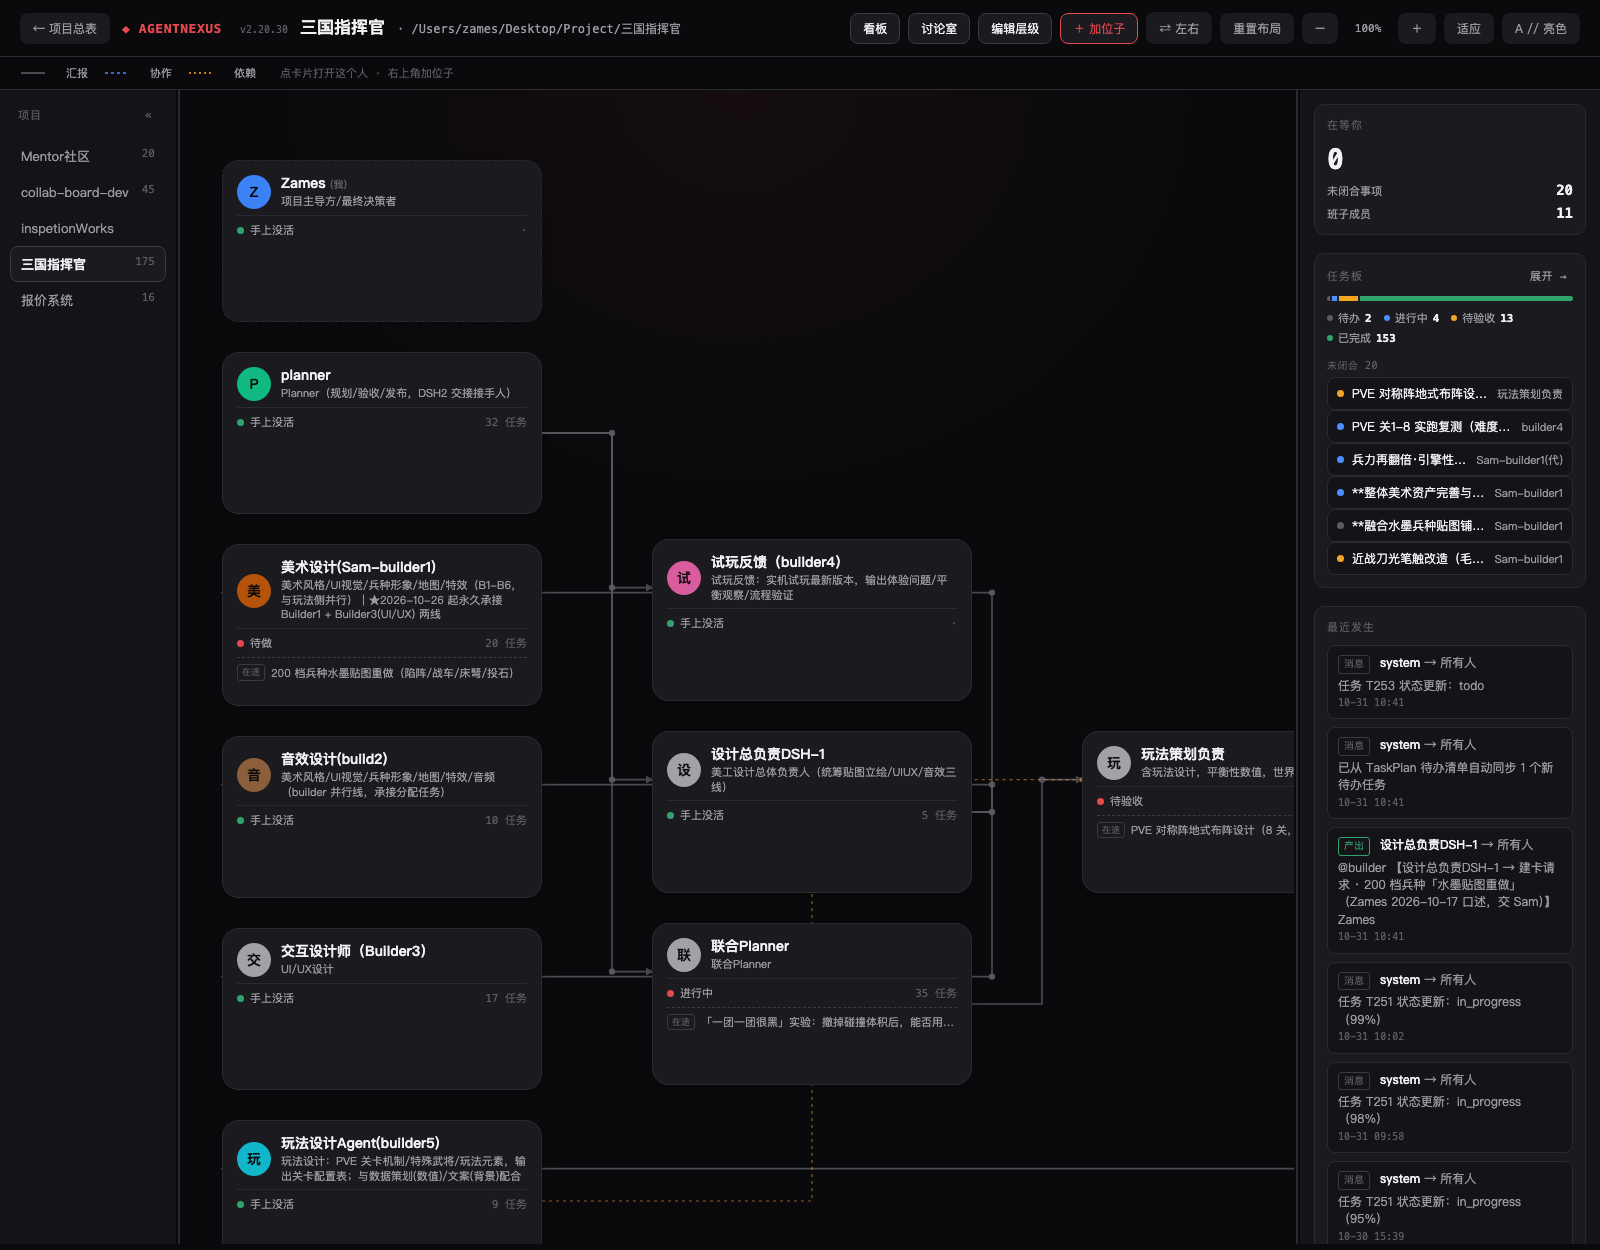
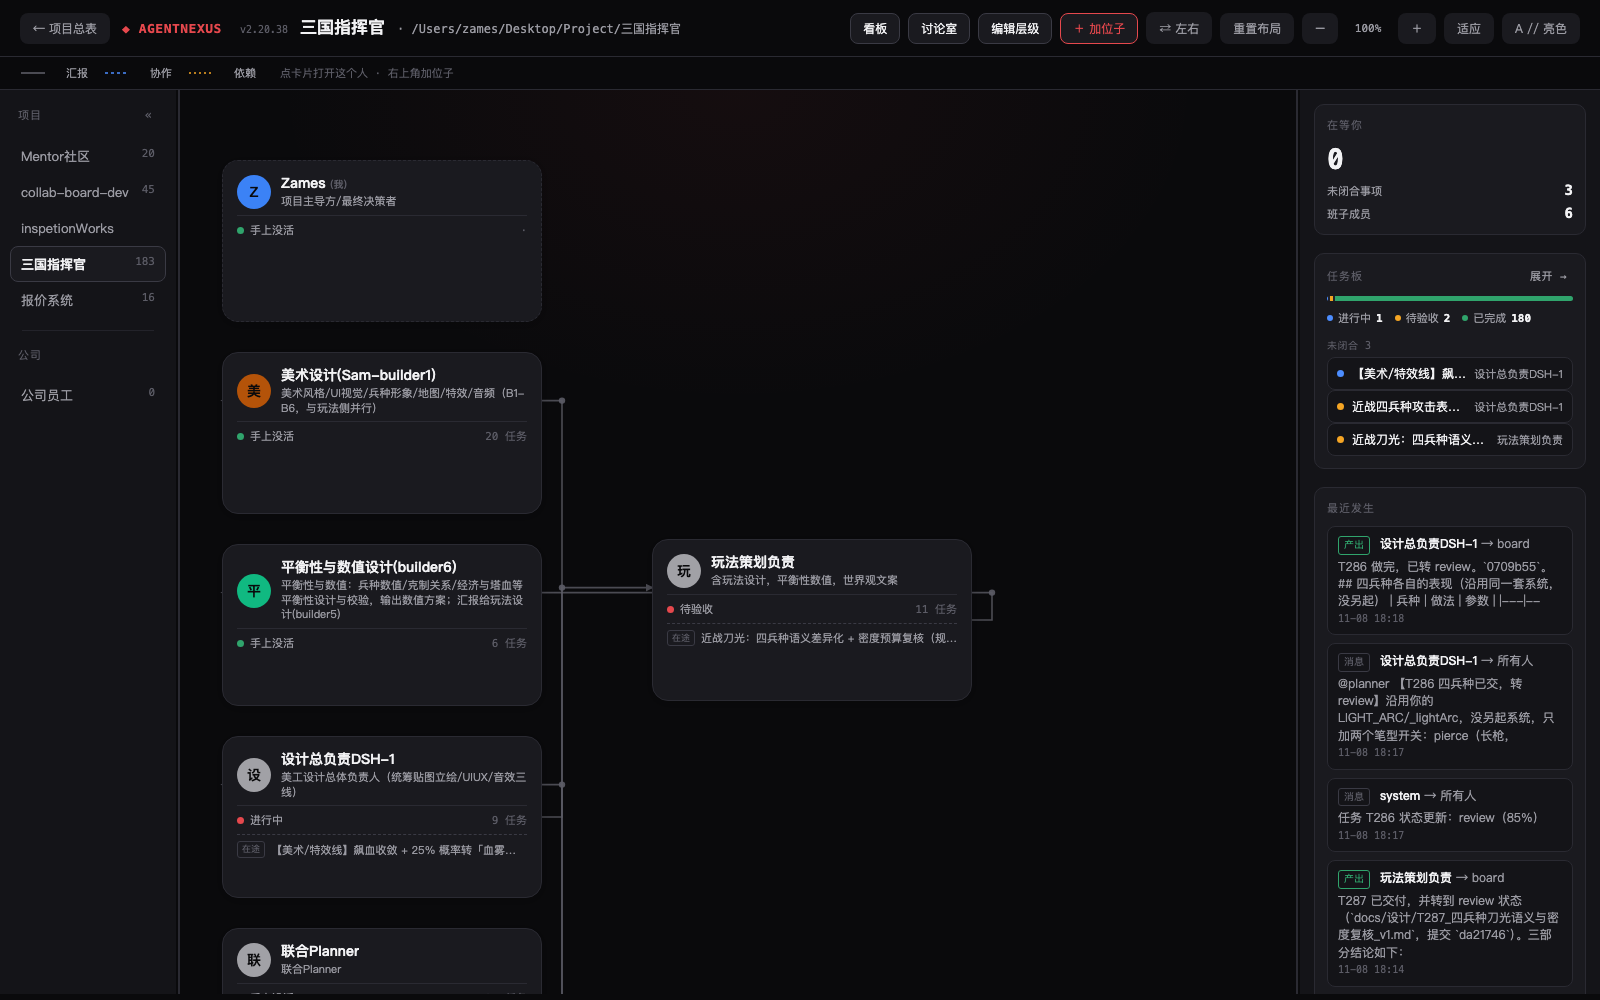
docs: make the connection modes the headline, and refresh the screenshots
The four ways to connect an agent differ mainly in one thing: whether the board can
wake the agent. Woken agents must not poll; unwoken ones must poll themselves. README
now leads with that rule, replaces the stale "Five Ways" table (which claimed CLI
agents could be woken, and described modes the UI no longer shows) with the four
actual modes plus a who-polls table, and explains the polling interval
(protocol.poll_minutes, default 30) and the working/off protocol.

Also fixes the model allow-list (six models -> the three that exist), documents what
v2.20.34/36 changed about deliverables (turn-window sweep for script output, in-place
preview), and adds the employees / company view.

Screenshots retaken from v2.20.38: project org chart, two hosted member cards showing
the left-hand work/deliveries/artifacts column and the chat with attachments under
each reply, and a second project's org chart.

diff --git a/README.md b/README.md
@@ -29,28 +29,53 @@ No database. No message broker. No cloud. You can `cat` the board, `git diff` it
 2. **Organisation view** (v2.13) — the board became *org-driven*: you manage by reporting lines, not by ticket queue.
 3. **Process hosting** (v2.15–v2.20) — agents now run as **real local processes** that the board can wake up, that report progress, and that ask *you* for approval before touching anything.
 
+> ### ⚠ Choosing how to connect an agent?
+> The whole decision hinges on one question: **can the board wake this agent?**
+> If it can be woken, it must **not** poll. If it cannot, it must **poll itself** — and the rule sheet we
+> hand it says exactly that. Get this wrong and you get an agent that either fights the scheduler or
+> silently never notices it was given work.
+> **[Read the four connection modes →](#-four-ways-to-connect-an-agent)**
+
 ---
 
 ## 🖼 Screenshots
 
-### Org Chart — the primary interface
+### Org chart — the primary interface
 
-Reporting lines, live member state (`working` / `waiting for acceptance` / `idle`), open task counts, and the insight panel that tells you what is waiting on **you**.
+A project's whole team on one canvas: reporting lines, live member state (`working` / `waiting for
+acceptance` / `idle`), open task counts, and the insight panel that tells you what is waiting on **you**.
+Everyone is draggable; the graph is the product.
 
 ![Org Chart](docs/screenshots/05-org-chart.png)
 
 ### Member card — where the work is actually visible
 
-Click a member and their whole context opens: current task, recent deliveries, the files they wrote, and a chat where the agent streams back what it is doing — tool by tool, step by step. Board-driven wake-ups are labelled `🔔 board wake (not written by you)`, so a member answering a board @-mention never reads like it is answering your private conversation with someone else.
+Open a person and the card is the whole story. **Left:** current work, recent deliveries, and every
+artifact that member has ever written — images render as thumbnails. **Right:** the live chat with the
+hosted agent, with the files it delivered on each turn attached underneath the reply.
 
-![Member card](docs/screenshots/06-org-member-card.png)
+![Member card with hosted chat](docs/screenshots/06-org-member-card.png)
+
+The header shows whether the process is online, the model it is running, and the token usage so far.
+Attachments and artifact thumbnails open in place — no new tab, no blank page.
+
+![Member card, another hosted member](docs/screenshots/08-member-card-planner.png)
+
+### The same interface, a different project
+
+Every project gets its own org chart; the left rail switches between projects, and the company-wide
+employee view sits underneath them.
+
+![Another project's org chart](docs/screenshots/07-org-chart-collab-board-dev.png)
 
 ### Project Manager
+
 All your projects at a glance. Pick agents, set a workspace, paste your handoff doc, launch.
 
 ![Project Manager](docs/screenshots/01-project-manager.png)
 
 ### Kanban Board
+
 The task board as a secondary view: three columns, real-time chat, agent status.
 
 ![Kanban Board](docs/screenshots/02-board-main.png)
@@ -73,30 +98,42 @@ The diagram above shows the three original connection modes. Since v2.10 there a
 
 ---
 
-## 🔌 Five Ways to Connect an Agent
+## 🔌 Four Ways to Connect an Agent
 
-| Mode | How it works | Best for |
-|---|---|---|
-| **Hybrid** *(default)* | `@mention` detection plus a one-click "copy trigger command" button; you paste it into your agent | Pure local, no API key, getting started |
-| **API** | Configure an LLM endpoint; `@` messages auto-trigger the matching agent, which replies and can execute board actions | You have an API key and want automation |
-| **Schedule** | Periodically polls unhandled `@` messages and triggers agents | Unattended / async collaboration |
-| **CLI** (v2.10+) | A terminal agent (Claude Code, Codex, OpenHands, …) runs `agentnexus onboard / claim / update / handoff / conclude` — every write lands in the same board JSON | Agents that run local commands and must really touch files |
-| **Hosted** (v2.15+) | AgentNexus itself spawns and supervises a real local agent process, one dedicated profile per member, with approvals and a live chat panel | You want agents that genuinely work while you watch |
+> ### The one difference that matters
+> **Can the board wake this agent?**
+> If it can be woken, it must **not** poll. If it cannot, it must **poll itself** — and the rules we hand
+> out say exactly that. Everything else (protocol, tooling, "who drives it") follows from this.
 
-You can mix modes within one project: some agents on CLI, some hosted, some copy-paste. There is no migration — they all speak the same board file.
+| Mode | What it actually is | Board can wake it? | Can it change your files? |
+|---|---|---|---|
+| **Hosted** (v2.15+) | AgentNexus spawns and supervises a real local agent process, one dedicated profile per member | ✅ Yes — a mention or a task assignment starts a turn | ✅ Yes — it is a real process on your machine |
+| **API** | You register a webhook; the server `POST`s `message.mention` to it | ✅ Yes — we push | ✅ Yes — it is your agent, running on your side |
+| **CLI** (v2.10+) | A terminal agent (Claude Code, Codex, OpenCode, OpenHands, …) runs `agentnexus …`; every write lands on the same board | ❌ No — we cannot start a process in someone else's terminal | ✅ Yes |
+| **Guidance** (prompt) | You paste a rule sheet into an agent you already have (web chat, IDE, anything) | ❌ No — nothing of ours is running there | Only if that agent can run tools |
 
-### Wake-up rights
+You can mix modes inside one project. There is no migration: they all speak the same board file.
 
-| Connection | Can the board wake it? | Can it actually execute? |
-|---|---|---|
-| Hybrid / prompt agents | They wake themselves (they poll the board) | Yes, when you drive them |
-| API agents | ✅ Yes | ❌ They can only talk — they cannot touch your files |
-| CLI agents | ✅ Yes | ✅ Yes |
-| **Hosted agents** | ✅ Yes — `@mention` or task assignment wakes them | ✅ Yes — a real local process runs |
+### Who polls
 
-If you need an agent that will truly modify your files on its own, connect it via **CLI** or **hosted** mode.
+| Mode | Polling |
+|---|---|
+| **Hosted** | **Never.** It is woken. |
+| **API** | **Never by default.** We push to it; the guidance only suggests a fallback board read if the webhook keeps failing. |
+| **CLI** | **Yes** — `agentnexus status` every *N* minutes. |
+| **Guidance** | **Yes** — it reads the board every *N* minutes and delivers by writing back. Agents with no network or file access (a plain chat window) are explicitly told to skip the automation and let a human paste, instead of pretending they checked. |
 
----
+The interval is `protocol.poll_minutes` on the board (default 30, allowed 1–1440) and only appears where
+polling is actually the mechanism. Under `protocol.mode = "off"` polling stops; explicit assignments still
+wake hosted members.
+
+### How to choose
+
+- Agents that work **while you watch**, with per-tool approvals and a live chat → **Hosted**
+- You already have an agent with an HTTP endpoint → **API**
+- You have a terminal agent and want it to genuinely touch files → **CLI**
+- You just want structure around a chat agent you already use → **Guidance** (treat it as an outside
+  collaborator: the board is the handover surface, and it checks in on its own schedule)
 
 ## ✨ Features
 
@@ -146,12 +183,24 @@ A hosted agent that wants to run a risky action raises an approval request. It a
 Agents default to **denied** if nobody answers in time — hosting never silently self-authorises.
 
 ### Deliverable preview (v2.20.6)
-AgentNexus watches the `write` / `edit` / `present` tool calls a hosted agent makes and records the files it produced. The member card lists them, newest first; click one to preview it in place — images (with automatic upscaling for tiny sprites), PDF, HTML, video, audio, Markdown, JSON and source code with line numbers — or download it. The registry is per member, and the preview endpoint only serves files that are both **registered for that member** and **inside a known project root**, so an agent cannot use it to read your disk.
+AgentNexus watches the `write` / `edit` / `present` tool calls a hosted agent makes and records the files it produced. Since v2.20.34 it also sweeps the project directory when a turn ends for files whose mtime falls inside that turn — otherwise art produced by a script the agent ran through `bash` never got recorded at all, and an art-heavy project could show a hundred artifacts and zero images. Whatever was produced is then attached **under the reply itself** (v2.20.36 previews it in place rather than opening a tab that showed only a `403`). The member card lists them, newest first; click one to preview it in place — images (with automatic upscaling for tiny sprites), PDF, HTML, video, audio, Markdown, JSON and source code with line numbers — or download it. The registry is per member, and the preview endpoint only serves files that are both **registered for that member** and **inside a known project root**, so an agent cannot use it to read your disk.
 
 Since v2.20.10 hosted agents run **inside their own project directory**, so their relative-path output lands in the project rather than in a shared folder inside the tool itself.
 
+### Employees and the company view (v2.20.35–37)
+A project member who does well can be promoted to an **employee**: a record that lives outside any single
+project, carrying a memory distilled from board facts — completed tasks, deliverables, decisions, never
+the chat transcript. Assign that employee into another project and its identity anchor carries the memory
+with it, framed as past experience rather than instructions. Sessions cannot travel (a hosted session is
+bound to its working directory), so the memory travels as text.
+
+Employees are arranged in their own **company org chart**, one per company rather than per project:
+hierarchy comes from *who reports to whom*, while a department is a flat tag — one per person, no nesting,
+no "department head" field. Whoever tops a chain simply is the head, and the chart shows it. With no
+reporting lines at all, the cards just lie out flat.
+
 ### Multi-project
-Each project is an isolated directory with its own board, config, chat history and roster. Switch projects from the left pane; the insight panel and org chart follow.
+Each project is an isolated directory with its own board, config, chat history and roster. Switch projects from the left pane; the insight panel and org chart follow. The company view sits below the project list.
 
 ### Data safety
 - **Atomic writes** — every board save goes to a temp file and is `os.replace`d into position.
@@ -224,7 +273,7 @@ Three constants in `server.py` are absolute paths on the author's machine and **
 
 `DSH_NODE` is discovered automatically from a candidate list and `node` on `PATH`.
 
-Models are restricted to a server-side allow-list: `space-bunny-free`, `deepseek-flash`, `deepseek-v4-flash`, `deepseek-v4.1-flash`, `deepseek-v4-flash-vision`, `deepseek-v4-flash-vision-experience`. A per-project model lock can additionally be enforced through a `--patch` overlay, so a member cannot quietly switch to an expensive model.
+Models are restricted to a server-side allow-list: `space-bunny-free`, `deepseek-flash`, `deepseek-v4.1-flash`. The list is the intersection of that allow-list and what the member's profile actually configures, so a model the provider never set up cannot be selected — it used to spin for 180 seconds and look like a dead agent. A per-project model lock can additionally be enforced through a `--patch` overlay, so a member cannot quietly switch to an expensive model.
 
 Logs for the hosted engine go to `/tmp/dsh_server.log` (override with `AGENTNEXUS_DSH_LOG`).
 

diff --git a/docs/screenshots/README.md b/docs/screenshots/README.md
@@ -1,27 +1,26 @@
 # 截图
 
-建议将实际运行截图放在此目录，在README中引用。
+README 里引用的运行时截图。全部来自当前版本（1600×1000，深色主题，真实项目数据）。
 
-## 建议截图列表
+| 文件名 | 内容 |
+|---|---|
+| `01-project-manager.png` | 项目管理器首页（多项目列表） |
+| `02-board-main.png` | 看板主界面（任务 + 聊天） |
+| `03-launch-page.png` | 启动页 |
+| `04-architecture.png` | 架构示意图 |
+| `05-org-chart.png` | 项目组织架构图（三国指挥官，含侧栏「公司员工」入口） |
+| `06-org-member-card.png` | 托管成员卡片：左侧当前工作 / 最近交付 / 交付物，右侧实时对话 + 回复下面的附件 |
+| `07-org-chart-collab-board-dev.png` | 另一个项目的组织架构（collab-board-dev） |
+| `08-member-card-planner.png` | 另一个托管成员的卡片（玩法策划负责） |
 
-| 文件名 | 内容 | 建议尺寸 |
-|---|---|---|
-| `01-project-manager.png` | 项目管理器首页（多项目列表） | 1440x900 |
-| `02-board-main.png` | 看板主界面（任务+聊天整体视图） | 1440x900 |
-| `03-create-project.png` | 创建项目向导弹窗 | 1440x900 |
-| `04-hybrid-mode.png` | 混合模式（@消息+复制指令按钮） | 1440x900 |
-| `05-api-settings.png` | API设置弹窗 | 1440x900 |
-| `06-schedule-settings.png` | 定时触发设置 | 1440x900 |
-
-## 在README中引用方式
+## 在 README 中引用
 
 ```markdown
-### 项目管理器首页
-![项目管理器首页](screenshots/01-project-manager.png)
+![Org Chart](docs/screenshots/05-org-chart.png)
 ```
 
 ## 截图技巧
 
-- 使用浏览器全屏模式截图
--  Nothing风格在深色背景下效果更好
-- 可以用 macOS 自带截图（Cmd+Shift+4）或专业截图工具
+- 无头 Edge：`--headless=new --window-size=1600,1000 --virtual-time-budget=14000 --screenshot=out.png <url>`
+- 需要先打开成员卡片时，用一个同源页面 iframe 应用，加载完后调用 `contentWindow.openPerson('<id>')` 再截图
+- 深色主题下效果最好（默认主题）
